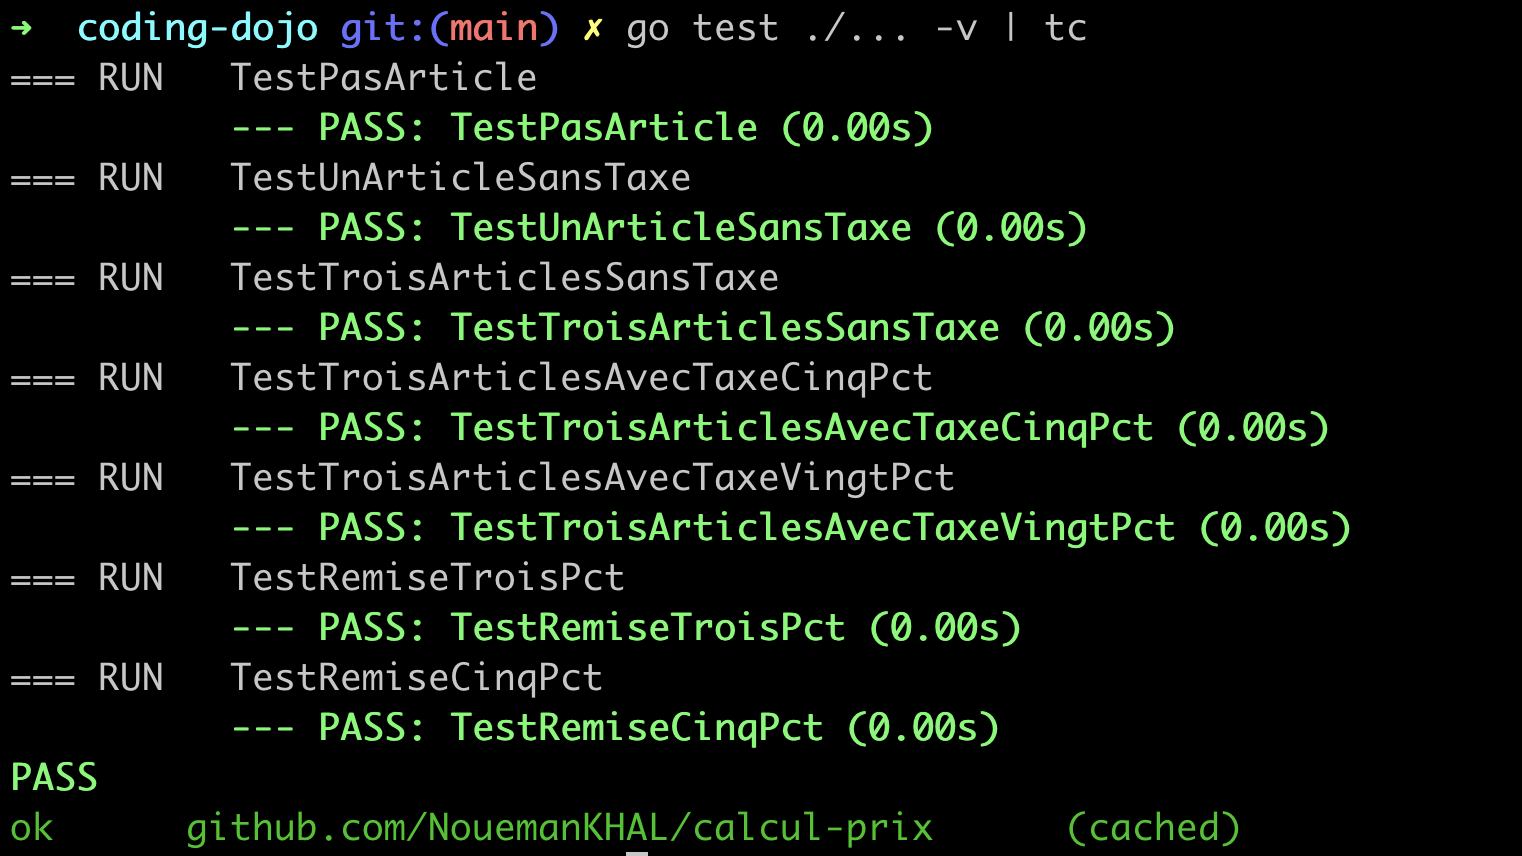
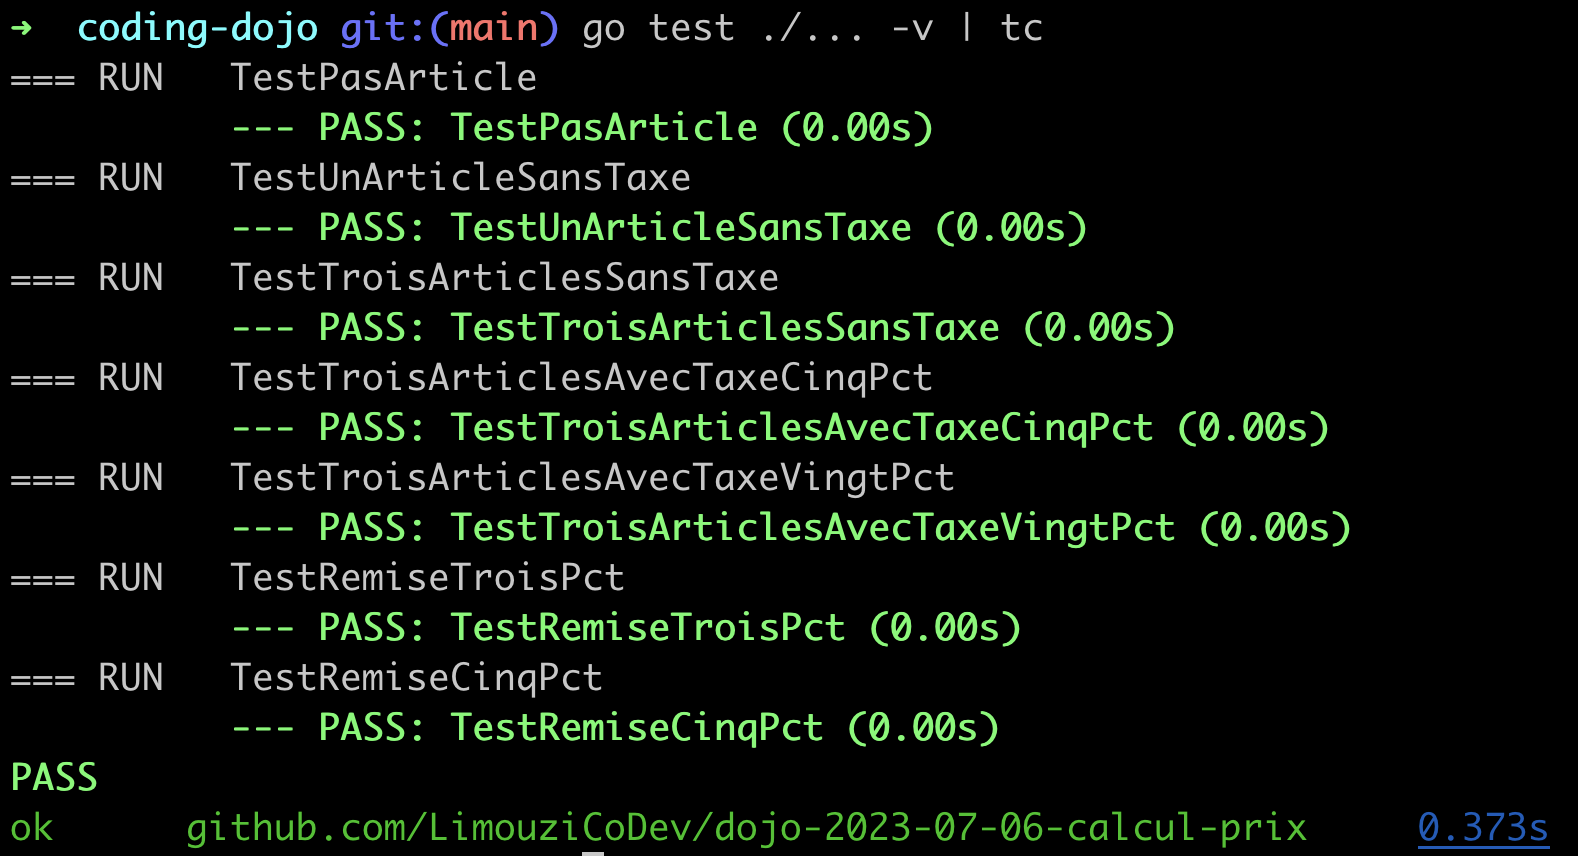
update go.mod module name

diff --git a/README.md b/README.md
@@ -26,4 +26,4 @@ $ go test -v ./... | tc
 
 ### Resultat:
 
-![Go test avec le module tc](resultat-go-test-tc.png)
+![exemple de go test avec le module tc](resultat-go-test-tc.png)
